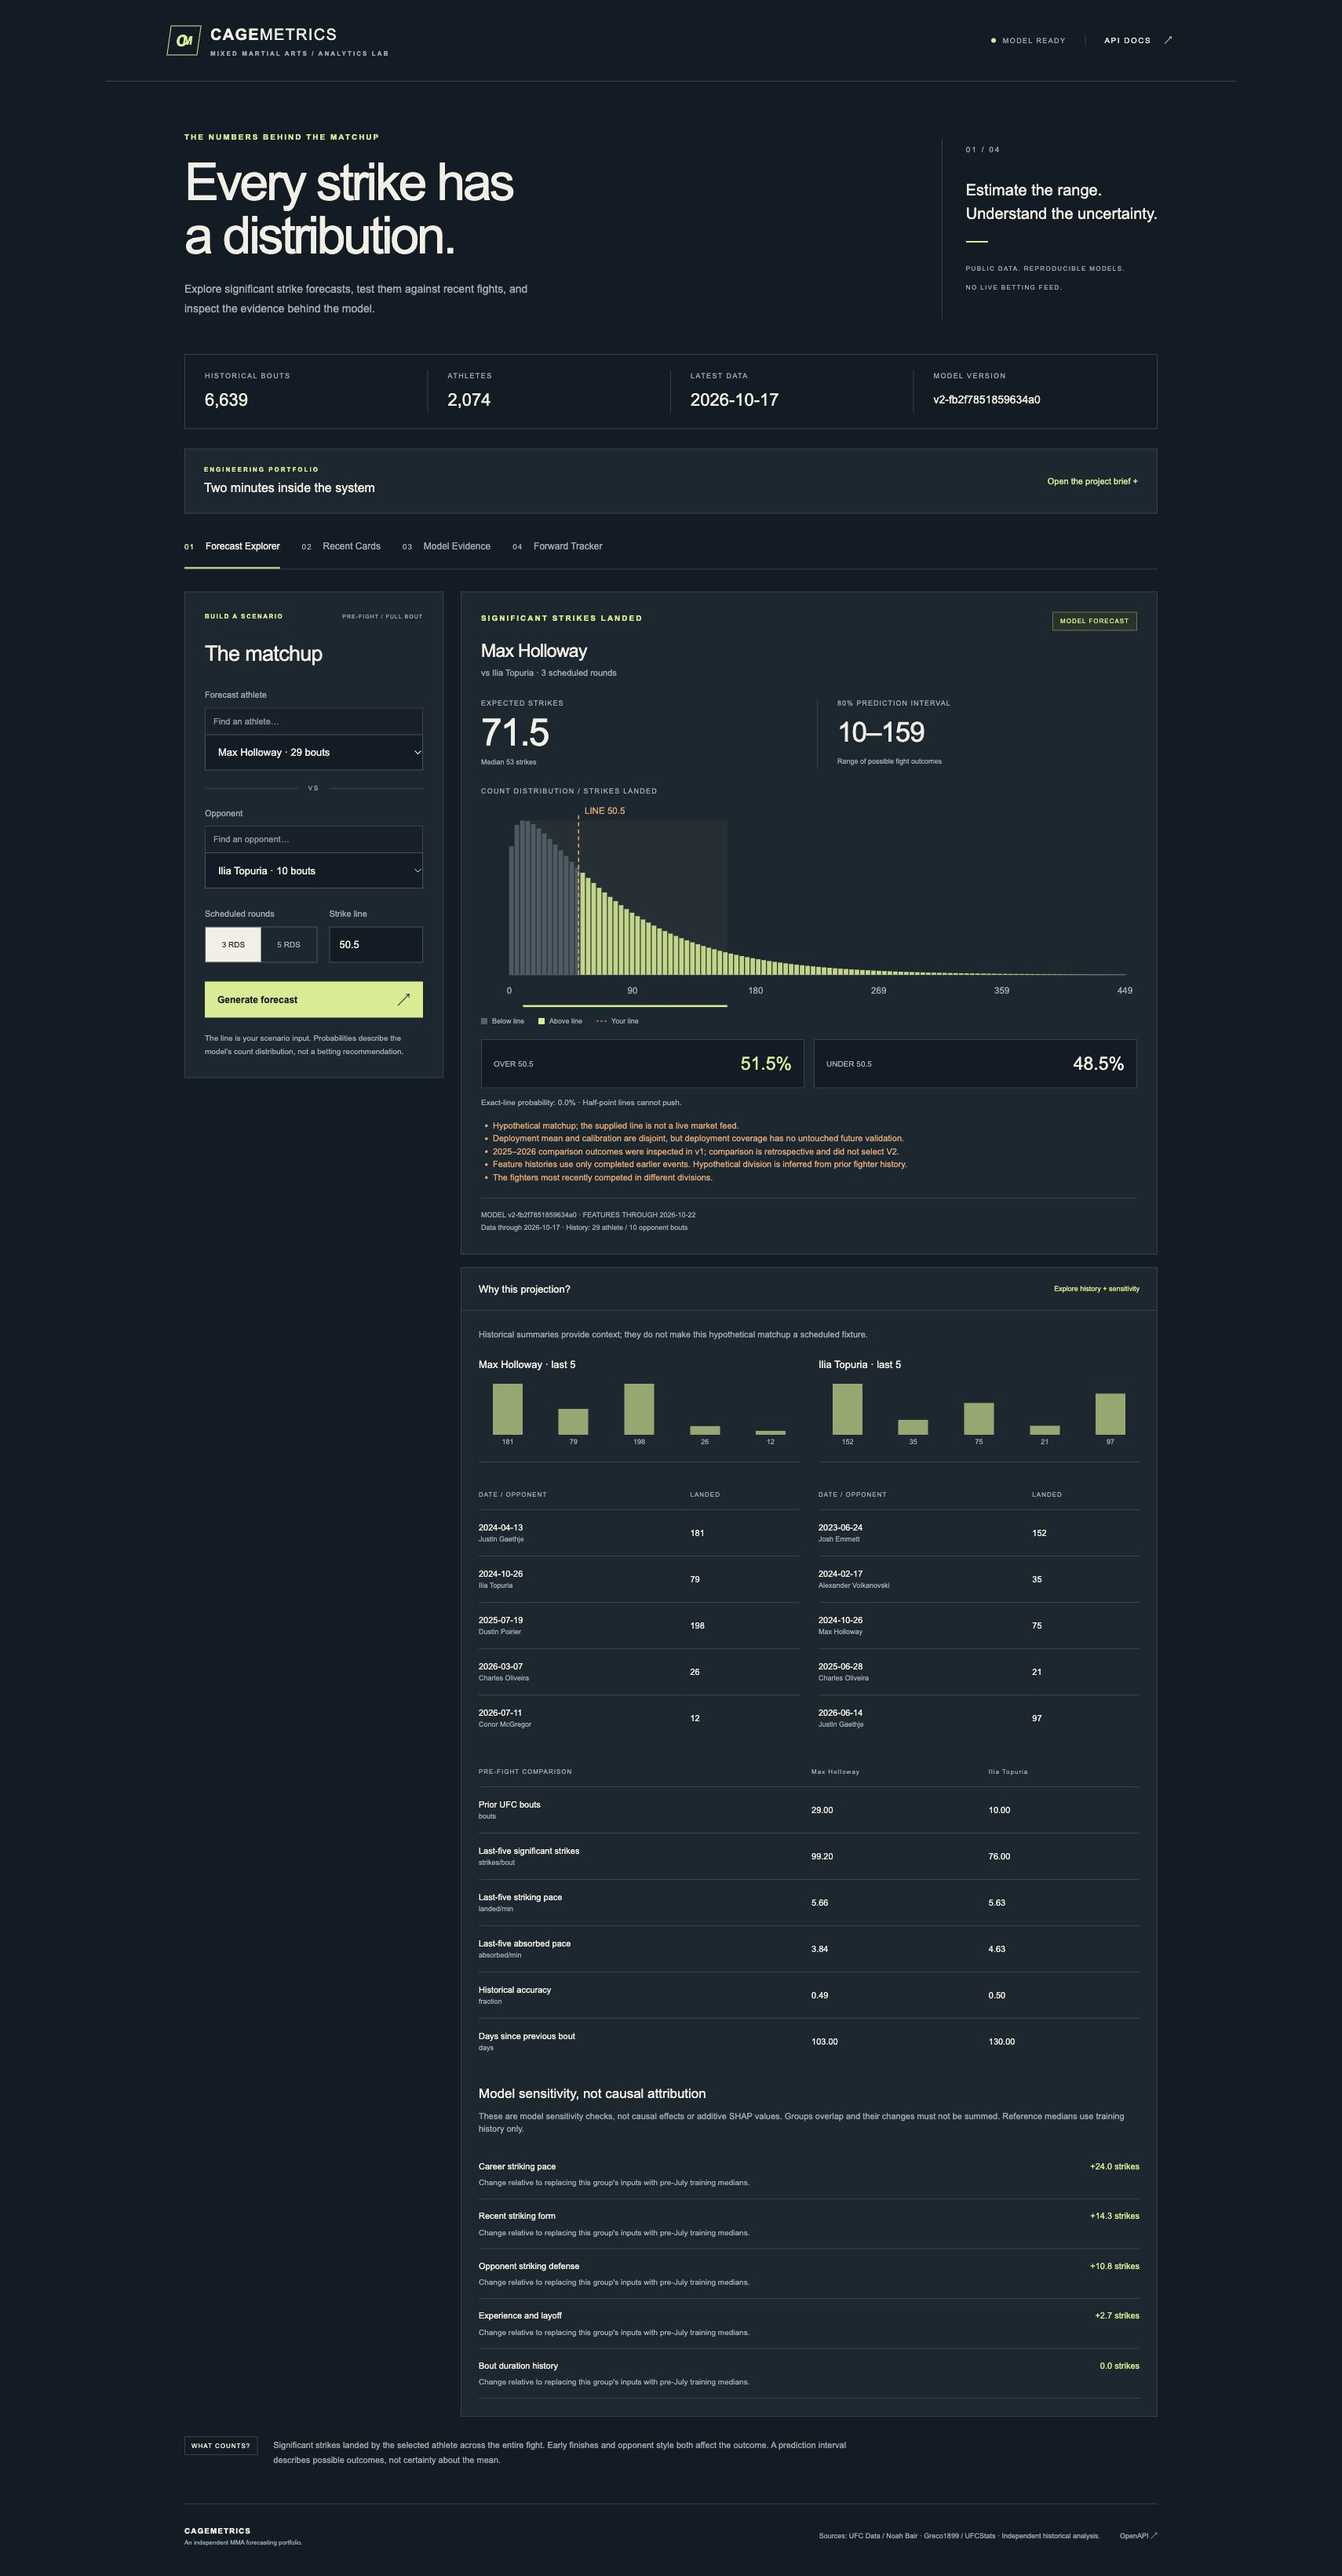
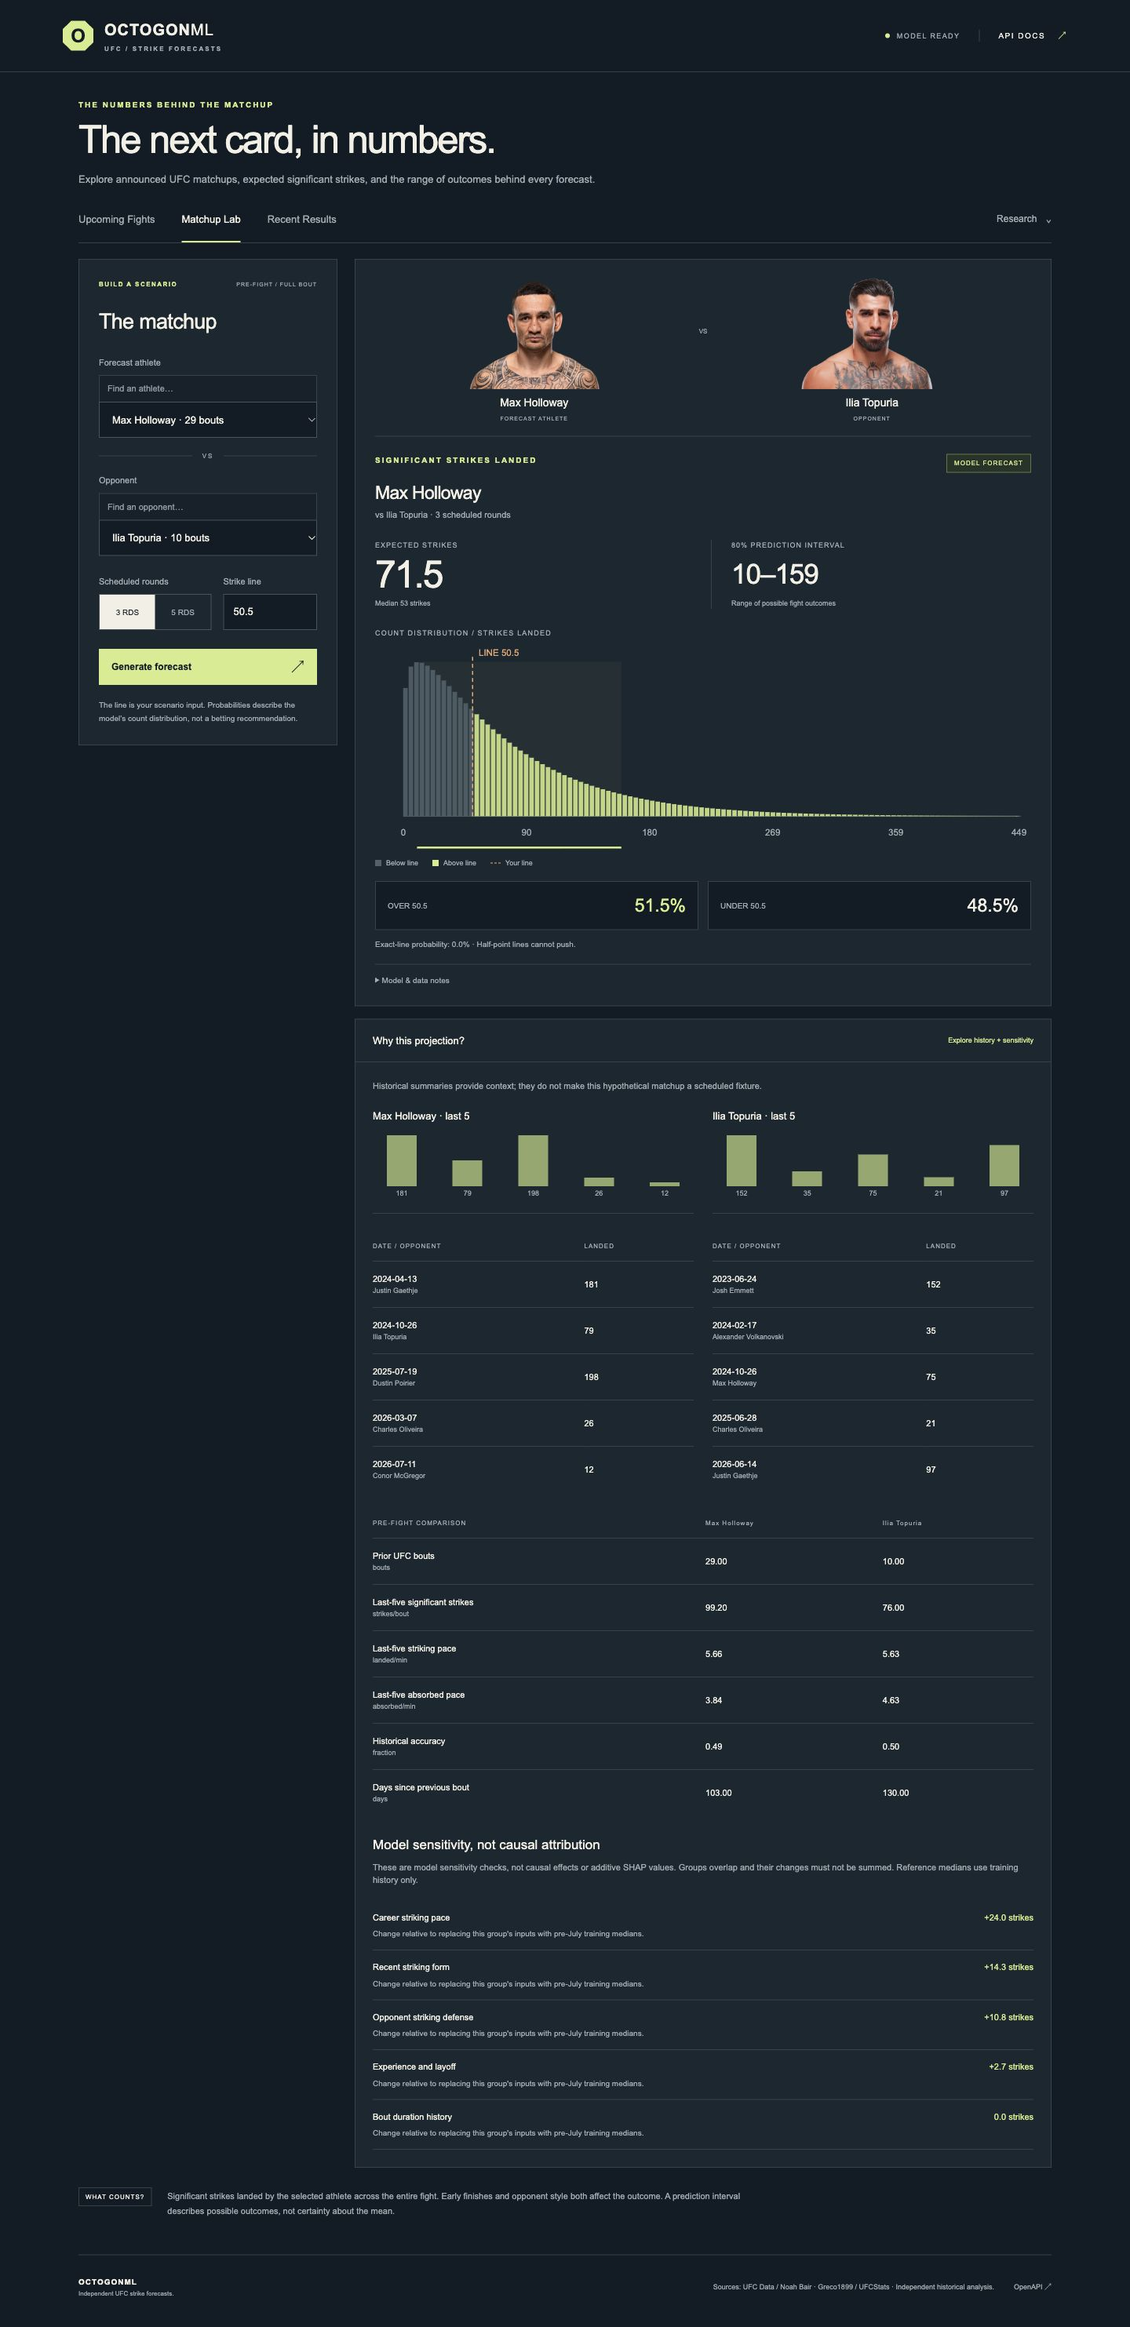
Polish recruiter walkthrough and record verified release evidence

diff --git a/README.md b/README.md
@@ -1,10 +1,12 @@
 # OctogonML
 
+[![CI](https://github.com/jas0nriverah/OctogonML/actions/workflows/ci.yml/badge.svg)](https://github.com/jas0nriverah/OctogonML/actions/workflows/ci.yml)
+
 **A reproducible UFC significant-strike forecasting system, from pinned source data to SQL-backed FastAPI inference.**
 
 OctogonML opens with announced UFC fight cards through December 2026: real athlete photos, expected significant strikes for both sides, and an 80% outcome range. Choose a card to browse its matchups. Matchup Lab supports hypothetical pairings; Recent Results shows the historical replay. Model Evidence and the forward ledger live under the Research menu.
 
-The public project is **OctogonML**; the Python distribution, imports, and CLI remain `cagemetrics`. Source: [jas0nriverah/OctogonML](https://github.com/jas0nriverah/OctogonML).
+The application is **OctogonML**; the Python distribution, imports, and CLI remain `cagemetrics`. Source: [jas0nriverah/OctogonML](https://github.com/jas0nriverah/OctogonML).
 
 This portfolio project demonstrates work relevant to a PrizePicks ML engineering internship: point-in-time feature construction, count prediction, probability evaluation, relational data pipelines, API validation, inference lineage, and measured serving performance. It is independent of PrizePicks and UFC. There is no live market feed or profitability claim.
 
@@ -17,6 +19,8 @@ Start with the [two-minute recruiter tour](docs/RECRUITER_TOUR.md), then inspect
 Python 3.12 is the verified runtime. From the project root:
 
 ```bash
+git clone https://github.com/jas0nriverah/OctogonML.git
+cd OctogonML
 python3.12 -m venv .venv
 source .venv/bin/activate
 python -m pip install -c requirements-lock.txt -e '.[dev,postgres]'
@@ -57,6 +61,8 @@ A **fresh bootstrap starts its own empty local ledger**. This repository also pr
 ## Announced cards and athlete photos
 
 The October 22 schedule snapshot contains **six announced events and 65 bouts** through December 31, 2026. Of these, 59 bouts have forecasts for both athlete perspectives; six retain their announced matchup/photos but show an explicit unavailable forecast because identity/history could not be verified. No unannounced December cards or substitute opponents are invented.
+
+For a quick review, download the [compact upcoming results CSV](reports/upcoming_predictions.csv). Full feature/distribution lineage remains in the JSON report and [issued forecast export](reports/issued_forecasts.json).
 
 Schedules are sourced from ESPN fight-center data with source links and observation timestamps. Published times identify a card or segment start; they are not exact individual bout walkout times. The browser loads actual ESPN athlete-profile headshots from their CDN where identities are resolved. Missing or failed images use initials. Remote images are not bundled or rehosted; offline operation preserves forecasts with the initials fallback. This project is independent of ESPN and UFC.
 
@@ -154,7 +160,9 @@ pytest
 ruff check src tests
 ```
 
-The verified local suite passes **136 tests**, including real PostgreSQL, offline fresh bootstrap, and real V2 HTTP inference, with approximately **76% overall coverage**. Checks cover data normalization, temporal exclusions, grouped partitions, distribution arithmetic, migrations, feature parity, experiments, forward settlement/export, and API behavior. Inspect the [test results](reports/test-results.xml) and [coverage report](reports/coverage.json) for the exact current run/count; the release-verification report records the accompanying checks. PostgreSQL integration tests opt in through `CAGEMETRICS_TEST_DATABASE_URL`, which must point to a dedicated test database. The CI workflow installs the constrained dependencies and runs the configured checks; local success does not claim a completed external CI run.
+The verified local suite passes **136 tests**, including real PostgreSQL, offline fresh bootstrap, and real V2 HTTP inference, with **75.5% overall coverage**. Checks cover data normalization, temporal exclusions, grouped partitions, distribution arithmetic, migrations, feature parity, experiments, forward settlement/export, and API behavior. Inspect the [test results](reports/test-results.xml) and [coverage report](reports/coverage.json) for the exact current run/count; the release-verification report records the accompanying checks. PostgreSQL integration tests opt in through `CAGEMETRICS_TEST_DATABASE_URL`, which must point to a dedicated test database.
+
+[Hosted CI succeeded for source commit `89000e6`](https://github.com/jas0nriverah/OctogonML/actions/runs/39818568750): Linux/PostgreSQL ran all 136 tests, and a separate Linux Docker job built the image and verified V2 readiness. This verifies container execution in hosted CI; it does not establish a public hosting deployment.
 
 With the server running in another terminal:
 
@@ -178,7 +186,7 @@ Inspect both [concurrency-one](reports/benchmark-c1.json) and [concurrency-ten](
 ## Screenshots and project map
 
 - [Desktop forecast](reports/forecast-desktop.jpg), [recent replay](reports/recent-desktop.jpg), [model evidence](reports/evidence-desktop.jpg).
-- [Announced fight cards](reports/upcoming-desktop.jpg), [December card](reports/upcoming-december.jpg).
+- [Announced fight cards](reports/upcoming-desktop.jpg), [mobile cards](reports/upcoming-mobile.jpg), [December card](reports/upcoming-december.jpg).
 - [Mobile forecast](reports/forecast-mobile.jpg), [recent replay](reports/recent-mobile.jpg), [model evidence](reports/evidence-mobile.jpg).
 - [Matchup history and sensitivity](reports/context-desktop.jpg), [forward tracker on mobile](reports/forward-mobile.jpg).
 - `src/cagemetrics/`: ingestion, SQL repository, features, modeling, CLI, API, and dashboard.

diff --git a/docs/SMOKE_TEST.md b/docs/SMOKE_TEST.md
@@ -11,6 +11,6 @@ Run this against the actual service after automated tests pass. Preserve screens
 7. Under Research → Forward Tracker, distinguish a fresh empty local ledger from the preserved real issuance run. Published reports record 118 future athlete forecasts and no settled outcomes. Exercise JSON import/client validation without inventing a scheduled fight. Verify immutable provenance, idempotent retry, and CSV/JSON exports only on legitimate fixtures. Past timestamps and invalid IDs must be rejected by the backend.
 8. At a 390×844 viewport, inspect the three primary tabs, Research menu/views, announced fighter photo cards, release brief, forecast/history SVGs, JSON editor, long hashes, and internal table scrolling. The page itself should not overflow horizontally. Check keyboard focus and accessible labels.
 9. Run the documented serial and concurrent benchmark commands against the same service/database. Preserve both reports. Review console/server errors and error rate; do not hide a slower concurrency result.
-10. Run `ruff check src tests migrations`, `pytest`, and `node --check src/cagemetrics/web/app.js`. PostgreSQL integration uses a dedicated `CAGEMETRICS_TEST_DATABASE_URL`. CI/deployment manifests are configuration artifacts until an actual external run/deployment is verified.
+10. Run `ruff check src tests migrations`, `pytest`, and `node --check src/cagemetrics/web/app.js`. PostgreSQL integration uses a dedicated `CAGEMETRICS_TEST_DATABASE_URL`. [Hosted CI for `89000e6`](https://github.com/jas0nriverah/OctogonML/actions/runs/39818568750) passed Linux/PostgreSQL tests and a separate Docker build/V2-readiness check. Recheck subsequent source revisions rather than assuming an older run covers changed code. Public hosting remains undeployed.
 
 The forward ledger check must never be satisfied by inserting a fake completed example. If no real future fixture is verified, record validation/export checks and retain the empty ledger; leave prospective scoring unclaimed.

diff --git a/docs/ENGINEERING.md b/docs/ENGINEERING.md
@@ -53,4 +53,4 @@ The constrained dependency file, deterministic seeds, source revision/hashes, mo
 
 Measure both serial and concurrent workloads and retain every relevant report. The benchmark includes HTTP, SQL state lookup, feature assembly, inference, distribution generation, and persisted audit history. Loopback measurements exclude external networking and service startup; per-request timing excludes the client semaphore wait. Report throughput and error rate alongside p50/p95, database engine, workload, and hardware. A fast serial request is not a capacity claim.
 
-The GitHub Actions configuration defines repeatable lint/tests with PostgreSQL. The Render manifest defines a deployment path. Inspect a real CI run or deployment result before claiming either has executed externally.
+The [hosted GitHub Actions run for source commit `89000e6`](https://github.com/jas0nriverah/OctogonML/actions/runs/39818568750) passed both jobs: Linux/PostgreSQL ran 136 tests, and Linux Docker built the image and verified V2 readiness. Local measured coverage is 75.5%. The Render manifest defines a deployment path, but no public hosting deployment has been performed. Hosted container verification does not imply a production deployment.

diff --git a/data/ATTRIBUTION.md b/data/ATTRIBUTION.md
@@ -2,7 +2,7 @@
 
 Historical base: Noah Bair, UFC Data v0.1.1 (2026), https://doi.org/10.5281/zenodo.23458636, CC BY 4.0: https://creativecommons.org/licenses/by/4.0/. Underlying sources: UFCStats, MMA Decisions, BestFightOdds, martj42 official ranking archive, UFCalendar.
 
-October 17 increment: Greco1899/scrape_ufc_stats, https://github.com/Greco1899/scrape_ufc_stats, repository license GPL-3.0; original license preserved under raw/Greco1899/LICENSE. No scraper code copied.
+October 17 increment: Greco1899/scrape_ufc_stats, https://github.com/Greco1899/scrape_ufc_stats, repository license GPL-3.0; original license preserved in [licenses/GPL-3.0.txt](licenses/GPL-3.0.txt) and in the raw download cache. The historical source notice is [licenses/CC-BY-4.0-notice.txt](licenses/CC-BY-4.0-notice.txt). No scraper code copied.
 
 Changes: normalized schema, exact identity mappings, round aggregation, standard-format filtering, NC/overturned exclusions, lagged features. Raw snapshots, original license texts, commit IDs, URLs and SHA256 hashes are preserved. Collected after events; recent predictions are reconstructed historical inference. Independent project, not affiliated with UFC or PrizePicks.
 

diff --git a/docs/RECRUITER_TOUR.md b/docs/RECRUITER_TOUR.md
@@ -26,4 +26,4 @@ Useful code entry points:
 - [`forward.py`](../src/cagemetrics/forward.py): the forward forecast lifecycle.
 - [`tests/`](../tests): meaningful data, temporal, distribution, API, and database checks.
 
-For deeper review, read [engineering decisions](ENGINEERING.md), [the model card](../MODEL_CARD.md), and [the interview discussion guide](INTERVIEW.md). Deployment and CI configuration are included; a configured workflow or hosting manifest is not evidence of a completed external CI run or live hosting release.
+For a compact result table, inspect [the upcoming forecast CSV](../reports/upcoming_predictions.csv). For deeper review, read [engineering decisions](ENGINEERING.md), [the model card](../MODEL_CARD.md), and [the interview discussion guide](INTERVIEW.md). [Hosted CI passed Linux/PostgreSQL tests and a Docker/V2-readiness check for source commit `89000e6`](https://github.com/jas0nriverah/OctogonML/actions/runs/39818568750). The application has not been publicly hosted.

diff --git a/docs/INTERVIEW.md b/docs/INTERVIEW.md
@@ -29,7 +29,7 @@ Use this as a factual starting point. Be ready to explain the code, reproduce th
 | Model serving | FastAPI/Pydantic validation, artifact loading, finite-count probabilities, saved prediction retrieval, error responses |
 | Performance | Full HTTP benchmark, database-aware measurements, thread limits, precomputed state with exact parity |
 | Product communication | Responsive UI, uncertainty visualization, methodology labels, loading/error states, noncausal sensitivity context |
-| Software quality | Unit/integration tests, migration checks, dependency constraints, CI configuration, documented smoke tour |
+| Software quality | 136 passing tests, 75.5% measured coverage, migration checks, dependency constraints, hosted Linux/PostgreSQL CI, Docker build/V2-readiness verification |
 
 ## Resume bullets grounded in the artifacts
 
